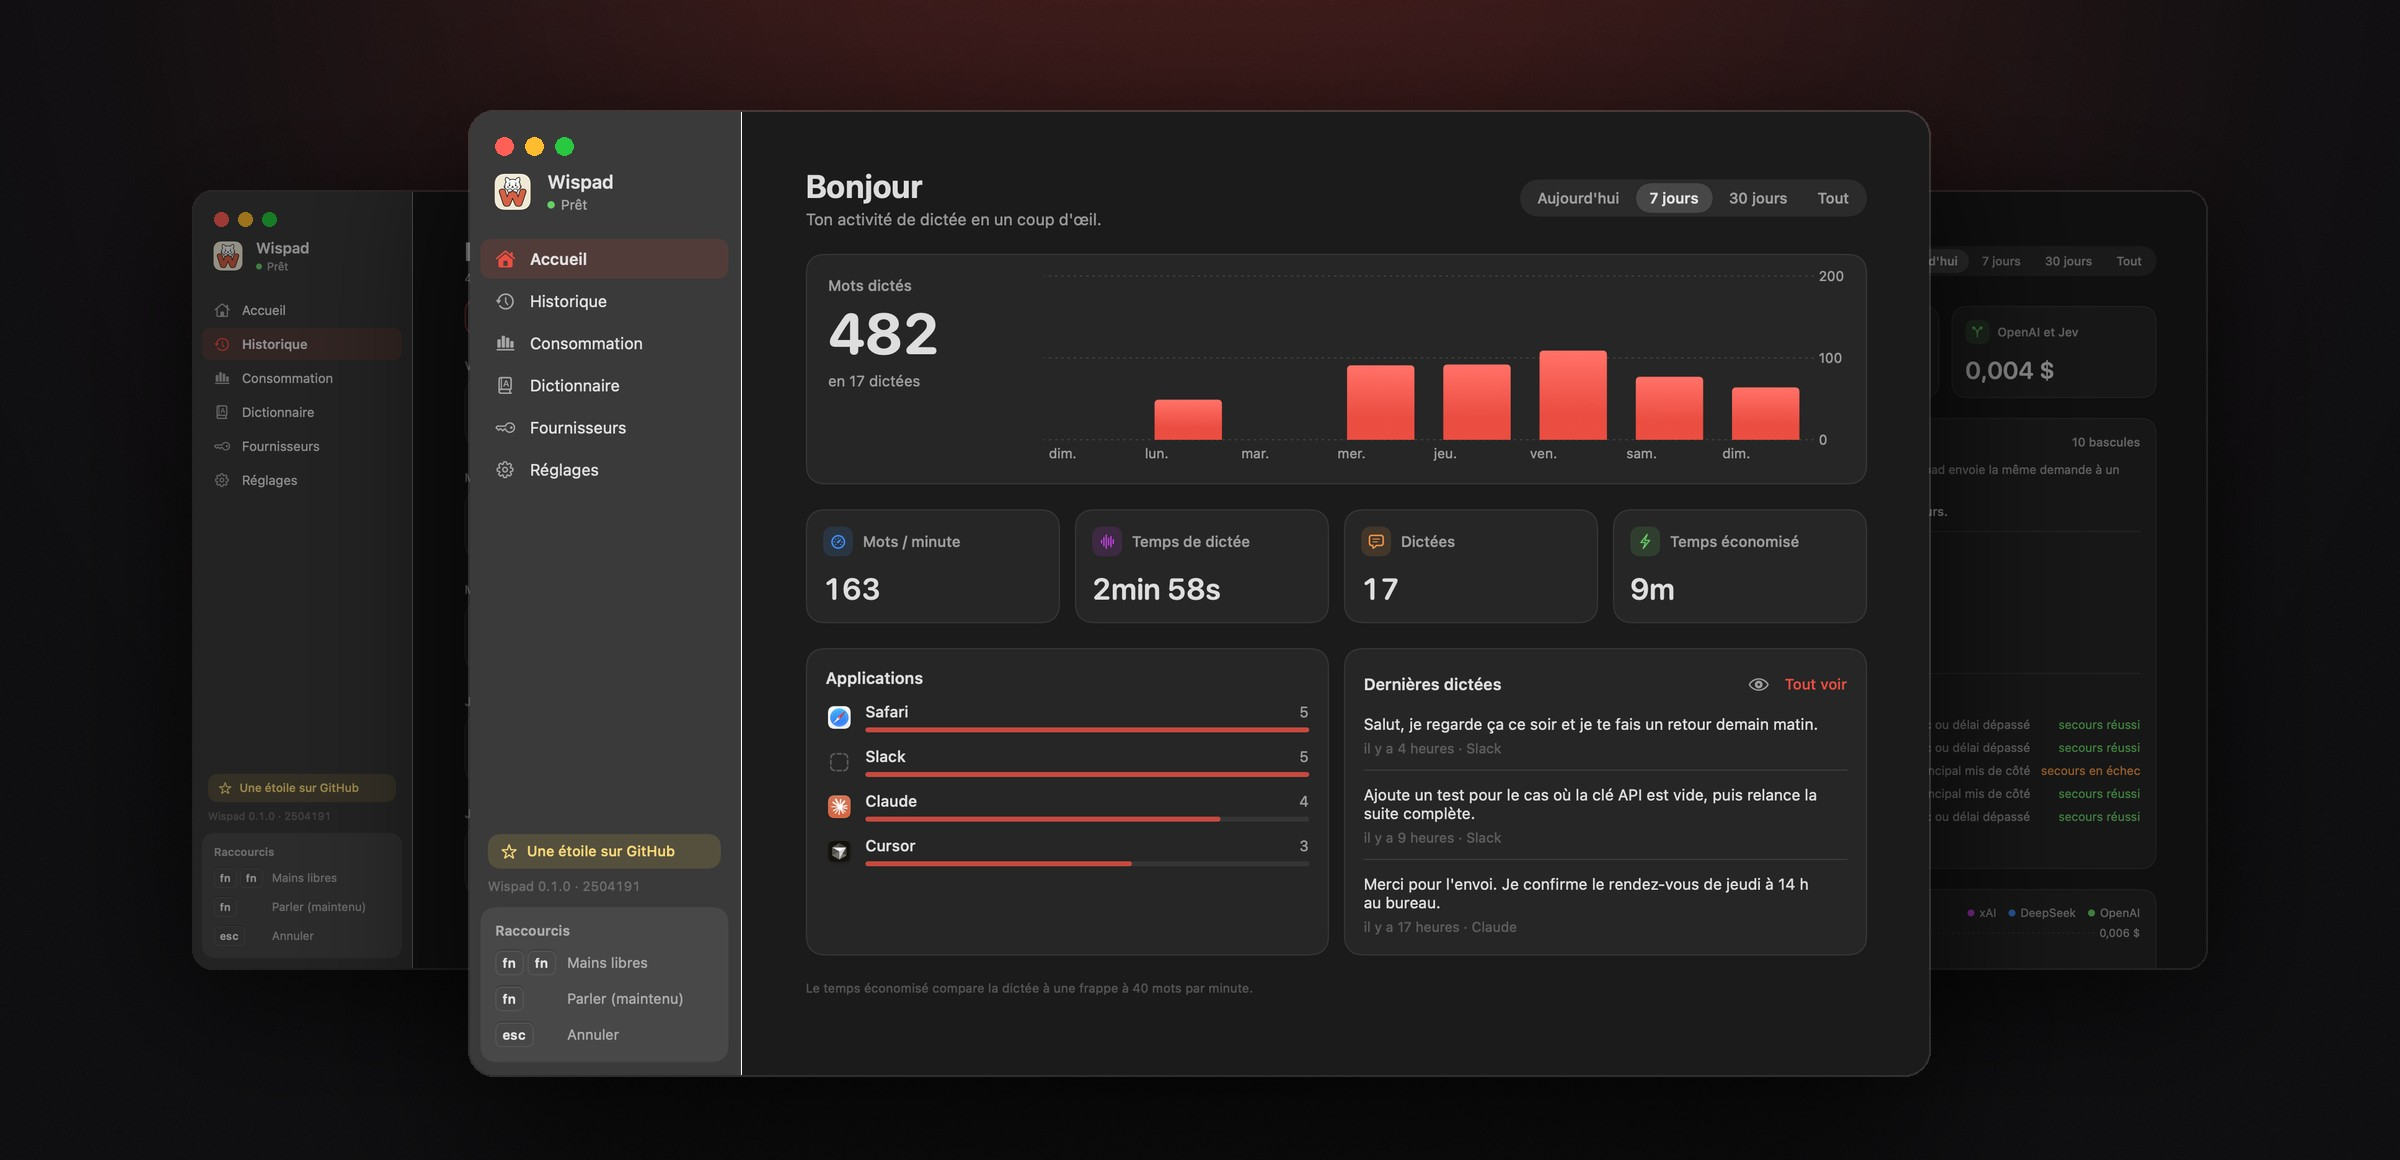
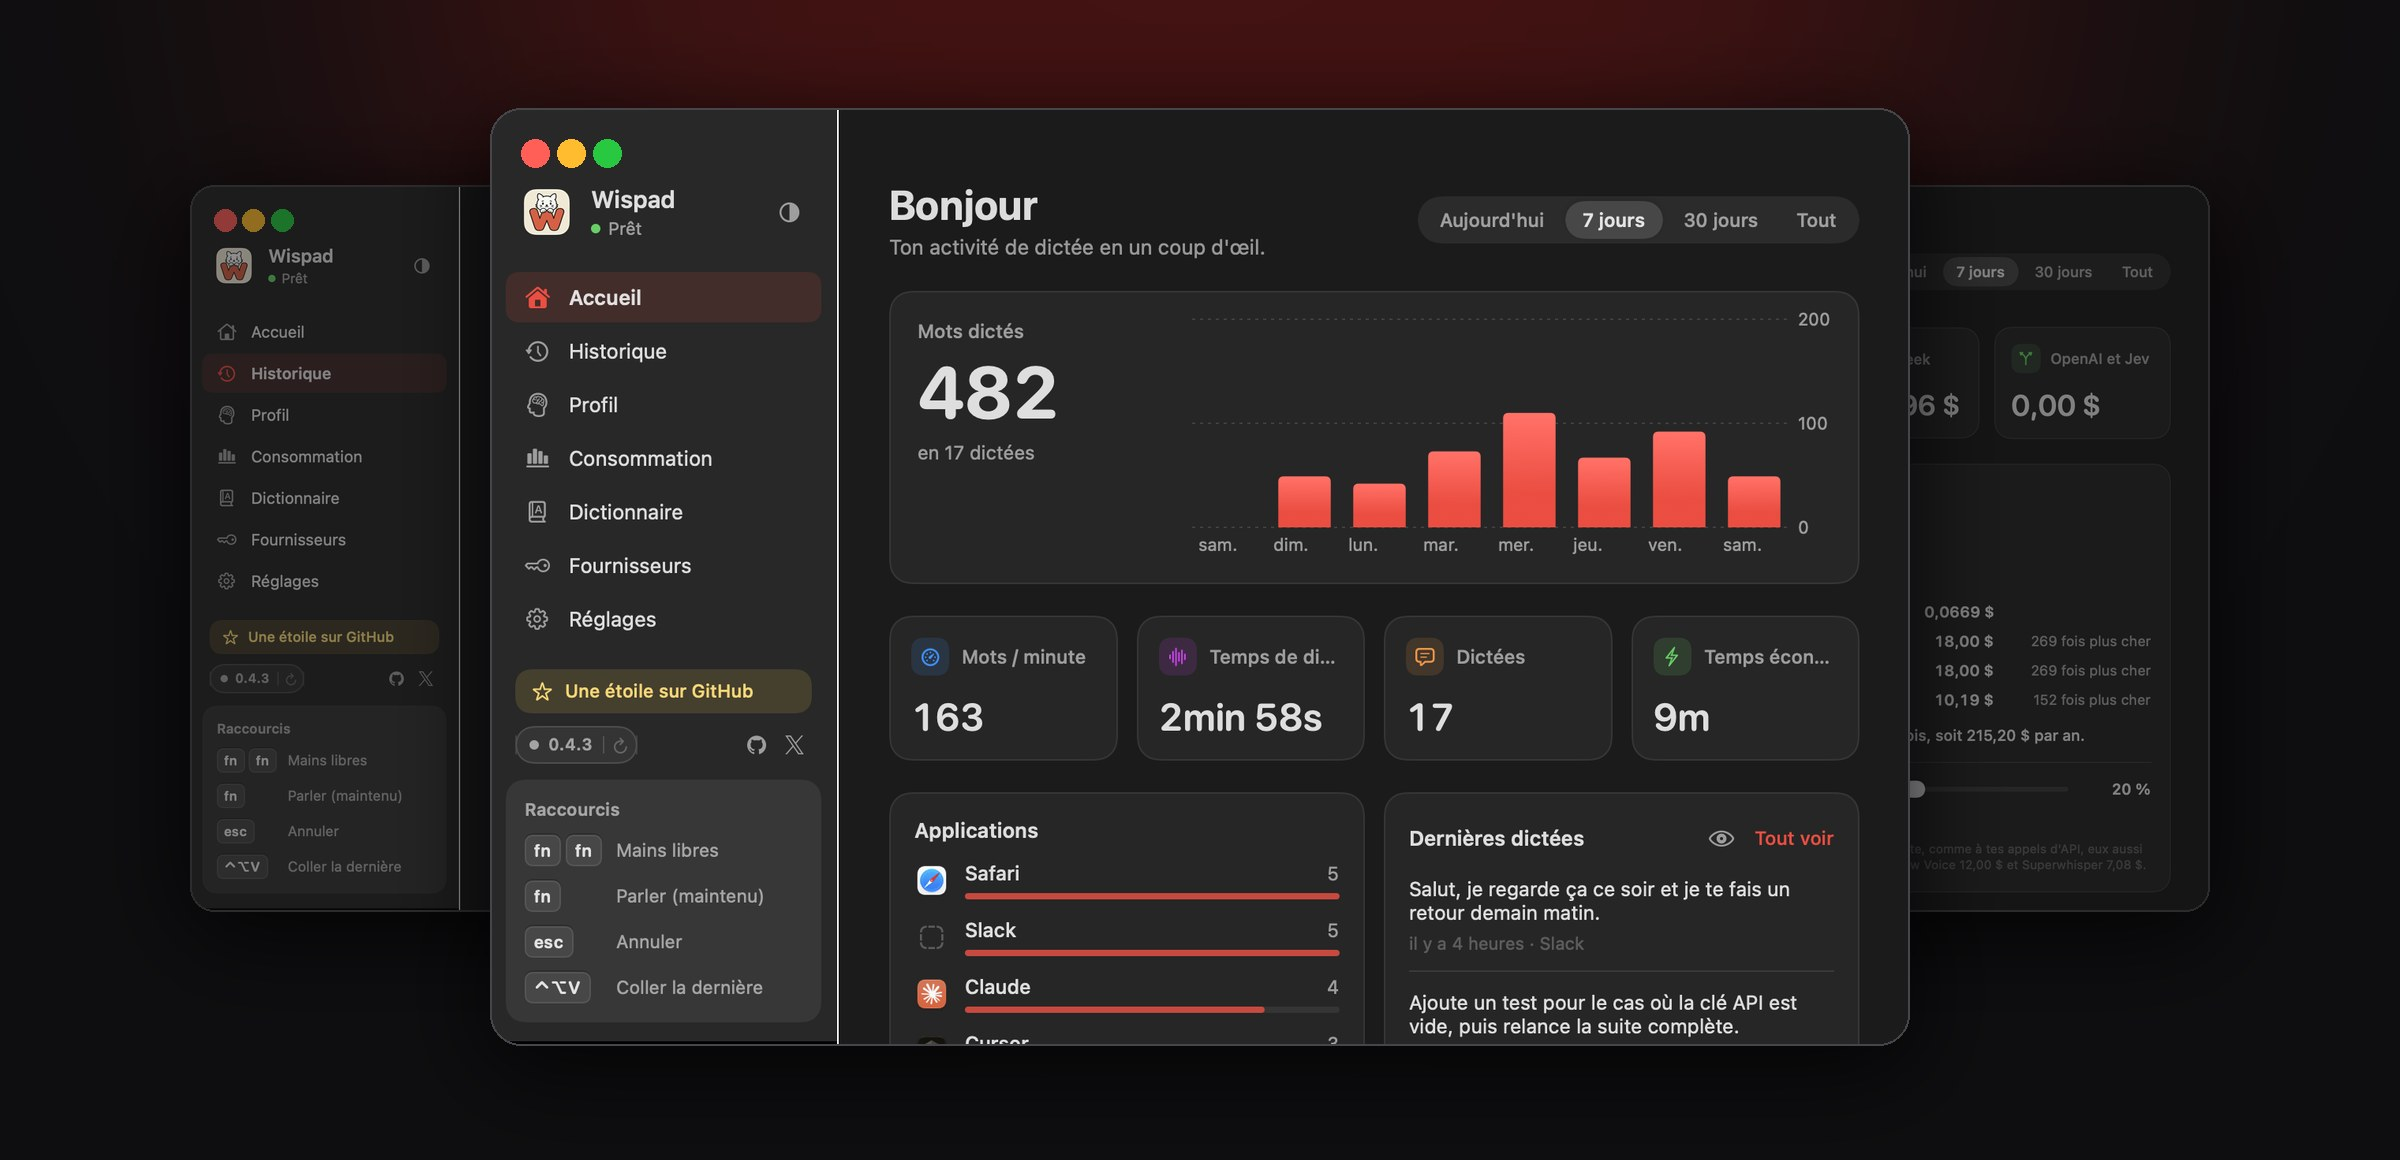
Wispad 0.4.4 : captures du README à jour, coût minuscule lisible

diff --git a/Sources/Wispad/ProfileTopics.swift b/Sources/Wispad/ProfileTopics.swift
@@ -216,7 +216,9 @@ private struct TopicsControls: View {
         let tokens = (estimate.tokens.input + estimate.tokens.output).formatted(.number.notation(.compactName).locale(appLocale))
         guard let service else { return String(localized: "environ \(tokens) jetons") }
         if let usd = estimate.costUSD {
-            return String(localized: "environ \(tokens) jetons, ≈ \(MoneyFormat.price(max(usd, 0.0001))) avec \(service.label)")
+            // Sous 0,001 $, « ≈ 0,00 $ » ferait croire à un appel gratuit.
+            let price = usd < 0.001 ? "< " + MoneyFormat.price(0.001) : "≈ " + MoneyFormat.price(usd)
+            return String(localized: "environ \(tokens) jetons, \(price) avec \(service.label)")
         }
         return String(localized: "environ \(tokens) jetons avec \(service.label), prix inconnu")
     }

diff --git a/README.md b/README.md
@@ -85,7 +85,13 @@ curseur : messagerie, e-mail, éditeur de code, terminal, navigateur.
     </td>
     <td width="50%" align="center">
       <img src="docs/images/ecran-providers.png" alt="Écran Fournisseurs : les 4 étapes d'une dictée, chacune avec son modèle, puis les clés API">
-      <br><b>Fournisseurs</b> · un modèle par étape (voix, vérification, correction, mots appris) et tes clés.
+      <br><b>Fournisseurs</b> · un modèle par étape, choisi parmi tous les modèles de tes clés, classés par vitesse et coût.
+    </td>
+  </tr>
+  <tr>
+    <td colspan="2" align="center">
+      <img src="docs/images/ecran-profile.png" alt="Profil, carte Ton cerveau : sujets de démonstration (Code, Travail, Voyages, Cuisine) reliés en 3D, avec le coût estimé de l'analyse et un portrait écrit" width="70%">
+      <br><b>Profil</b> · tes chiffres, ton rythme, tes mots et tes tics ; ton cerveau en 3D, par mots ou par sujets lus par une IA, avec le coût annoncé avant.
     </td>
   </tr>
 </table>
@@ -132,6 +138,14 @@ curseur : messagerie, e-mail, éditeur de code, terminal, navigateur.
   le dictionnaire, d'un simple Oui / Non dans la bulle.
 - **Signaler une erreur** depuis le détail d'une dictée garde, sur ton Mac, de quoi mesurer les progrès.
 
+### Ton profil
+
+- **Tes chiffres** : mots dictés (en pages ou en romans), temps gagné, séries de jours, ton rythme par heure et par
+  jour, tes mots favoris, tes tics de langage et ce que Wispad corrige le plus. Tout est calculé sur ton Mac.
+- **Ton cerveau en 3D** : tes mots reliés quand tu les dis ensemble, à faire tourner et zoomer. En option, une IA
+  relit ton historique avec ta clé de correction et le range par **sujets et catégories** (Code, Travail,
+  Voyages…), avec un portrait écrit. Coupé par défaut, coût annoncé avant, rien ne part sans ton clic.
+
 ## Fournisseurs
 
 Wispad n'a pas de serveur : il parle directement aux API, avec **tes clés**. **Tu paies directement chaque
@@ -140,7 +154,7 @@ fournisseur**, à l'usage, et l'écran Consommation estime le coût de chaque ap
 | Étape | Qui s'en charge | À savoir |
 | :--- | :--- | :--- |
 | **Transcription** (ta voix) | **xAI** Grok Voice Transcribe 2.0 *(recommandé)* ou **OpenAI** GPT Live Transcribe | En direct pendant l'écoute ; chez xAI, 0,20 $ de l'heure en direct. |
-| **Correction** (le texte) | Au choix dans Fournisseurs › Modèles, ou automatique : **DeepSeek** d'abord s'il a une clé, puis **OpenAI**, puis le modèle du fournisseur de voix (**xAI** ou **OpenAI**) | Seul le texte part à la correction, jamais l'audio. |
+| **Correction** (le texte) | N'importe quel modèle de texte de tes clés **DeepSeek**, **OpenAI** ou **xAI**, choisi dans Fournisseurs › Modèles (rangés par vitesse, avec leur coût), ou automatique : **DeepSeek** d'abord s'il a une clé, puis **OpenAI**, puis le modèle du fournisseur de voix (**xAI** ou **OpenAI**) | Seul le texte part à la correction, jamais l'audio. |
 | **Relais** | Au choix dans Fournisseurs › Modèles, pour la voix et pour la correction, ou aucun | Un service en panne est mis de côté, puis repris dès qu'il répond. |
 
 Une seule clé suffit pour commencer (xAI ou OpenAI). Clés facultatives : clé de gestion xAI (solde réel affiché
@@ -153,6 +167,8 @@ dans Consommation) et TypeSafe (Jev, premier avis sur les mots appris ; sans ell
 - 📵 **Pas de télémétrie** : ni statistiques ni journal envoyés. En dehors de tes fournisseurs, Wispad ne contacte
   que GitHub : son API publique, pour savoir si une nouvelle version est publiée (sans clé ni cookie), et le
   téléchargement de cette version quand tu cliques sur « Mettre à jour ».
+- 🧠 **Profil calculé sur ton Mac** : seule l'analyse par sujets, si tu l'allumes et la lances, envoie ton
+  historique à ton service de correction, après t'en avoir annoncé le coût.
 - 💻 **Historique et audio sur ton Mac**, avec une durée de conservation de l'audio réglable. Les journaux ne
   contiennent jamais ce que tu dictes.
 - 🔑 **Clés lisibles par ton seul compte** : `~/Library/Application Support/Wispad/api-keys.json`, ou ton propre

diff --git a/CHANGELOG.md b/CHANGELOG.md
@@ -3,6 +3,16 @@
 Les versions publiées de Wispad, de la plus récente à la plus ancienne. Le fichier `Wispad.dmg` de chaque version
 est sur la page [Releases](https://github.com/samirmedani/wispad/releases).
 
+## 0.4.4 — 24 octobre 2026
+
+Un coût minuscule ne s'affiche plus comme gratuit.
+
+**Corrigé**
+- Profil › Ton cerveau : un coût estimé sous 0,001 $ s'affiche « < 0,001 $ » au lieu de « ≈ 0,00 $ ».
+
+**Amélioré**
+- README : captures refaites sur la version actuelle (données de démonstration), avec le Profil et son cerveau par sujets.
+
 ## 0.4.3 — 24 octobre 2026
 
 Ton cerveau comprend enfin de quoi tu parles.
